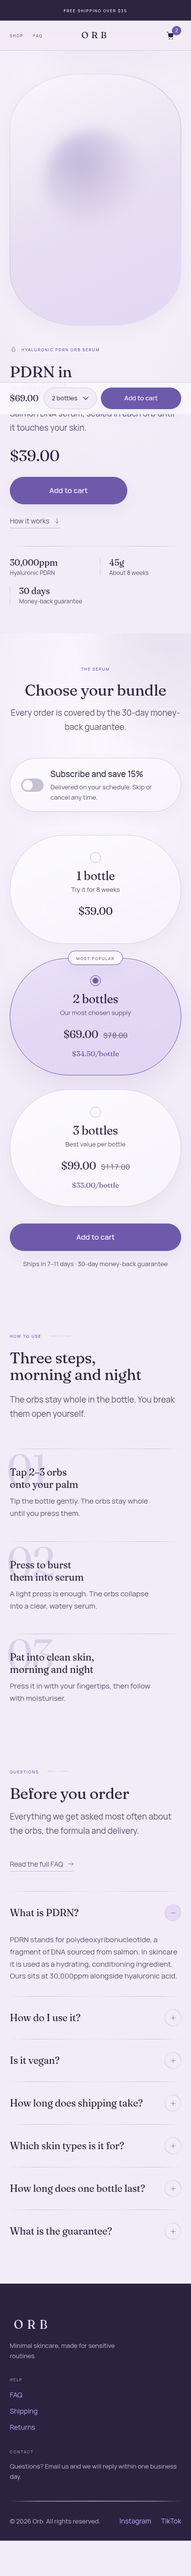
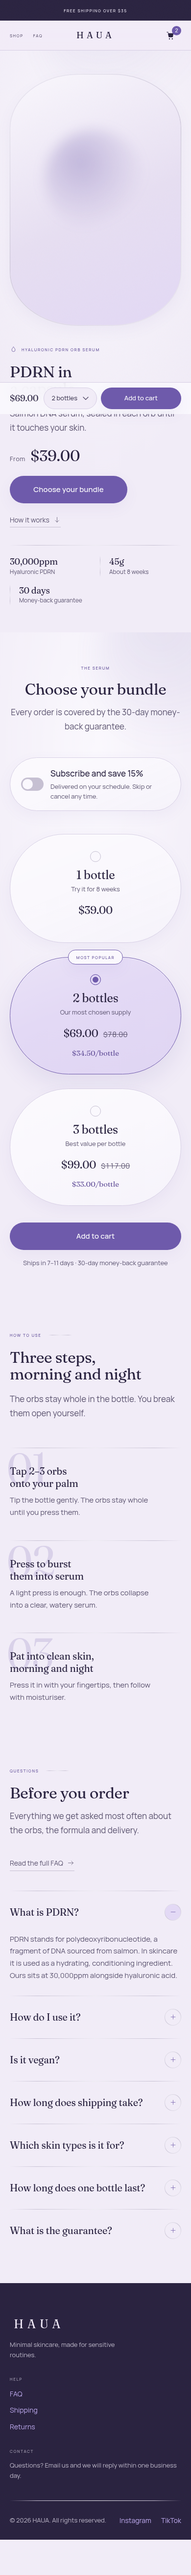
One buy section: the hero displays, the offer sells
Both templates had two product sections. The hero carried a price and an
add-to-cart, and the bundle selector below carried three prices and another
add-to-cart — two checkout paths for one product, and two different prices
shown for the same thing above the fold.

The hero is now display only on both templates: eyebrow, headline, subhead,
"From $39", micro-stats, and a button that scrolls to the offer. Add to cart
now exists in exactly three places, all of them deliberate — the bundle
selector, the sticky bar, and the cart drawer upsell.

The price still shows, because hiding it to avoid the duplicate would have
traded one problem for a worse one. It is text now, not a form, and prefixed
"From" when the product has more than one price.

Product facts corrected from the packaging photos:

- Brand is HAUA, not the "Orb" placeholder I invented. Header wordmark,
  footer, logo alt and page title all follow the brand_name setting, so this
  is one value — change it in the Customizer if you sell under another name.
- Net weight now reads 45 g / 1.58 oz, as printed.
- Key ingredients now list what the box states: Hyaluronic PDRN 30,000ppm,
  Ectoin, Glutathione, Sodium Hyaluronate Crosspolymer, Sodium DNA.
- The invented full INCI list is gone. It read plausibly, which is exactly the
  danger — an ingredient declaration is regulated and has to be copied off the
  carton. The tab now says so instead of guessing.
[…]

diff --git a/STATUS.md b/STATUS.md
@@ -144,9 +144,29 @@ straight into CI or a pre-push hook.
    they stay correct if prices change. If your variants land in a different
    order, fix **Variant position** on each bundle card or paste the numeric
    **Variant ID**.
-4. **Imagery.** Every image and the hero video are placeholders. Hero video
-   (mp4/webm + poster with alt text), product gallery images, logo and favicon.
-   The README has both routes for the video.
+4. **Imagery.** Every image and the hero video are placeholders. Where each
+   asset goes:
+
+   | Asset | Where it belongs | Why |
+   | --- | --- | --- |
+   | Packshot — bottle + box on white | **Product → Media** in admin, first position | The product hero gallery reads `product.media`; it needs no theme setting |
+   | Same packshot, or a lifestyle crop | **Hero video → Poster image** + alt text | The hero is display-only, so the poster carries it. No video needed to launch |
+   | Orbs close-up, texture, in-use shots | Product → Media, after the packshot | Also feeds the Results gallery if you restore it |
+   | Logo, favicon | Theme settings → Brand | Until then the wordmark renders as text |
+
+   The hero works with a still image alone — the video is optional. If you do add
+   one, the README has both routes.
+
+   **Not for the storefront:** the warehouse photo. It is useful for supplier or
+   stock verification, not for a page positioning a $39 serum.
+
+   **Think hard before using the supplier before/after infographic.** Before-and-
+   after imagery is an efficacy claim in visual form. It is the most heavily
+   policed asset class in cosmetics — Meta and TikTok both restrict it for skin,
+   and in most markets it needs substantiation you would have to hold yourself,
+   not inherit from a supplier. The whole copy system here is deliberately built
+   on "may help" and "supports" for the same reason. If you want it, get the
+   study behind it from the supplier in writing first.
 5. **Replace the INCI list** in Product details. What ships is a plausible
    placeholder and says so in the copy — but it is not your formula.
 
